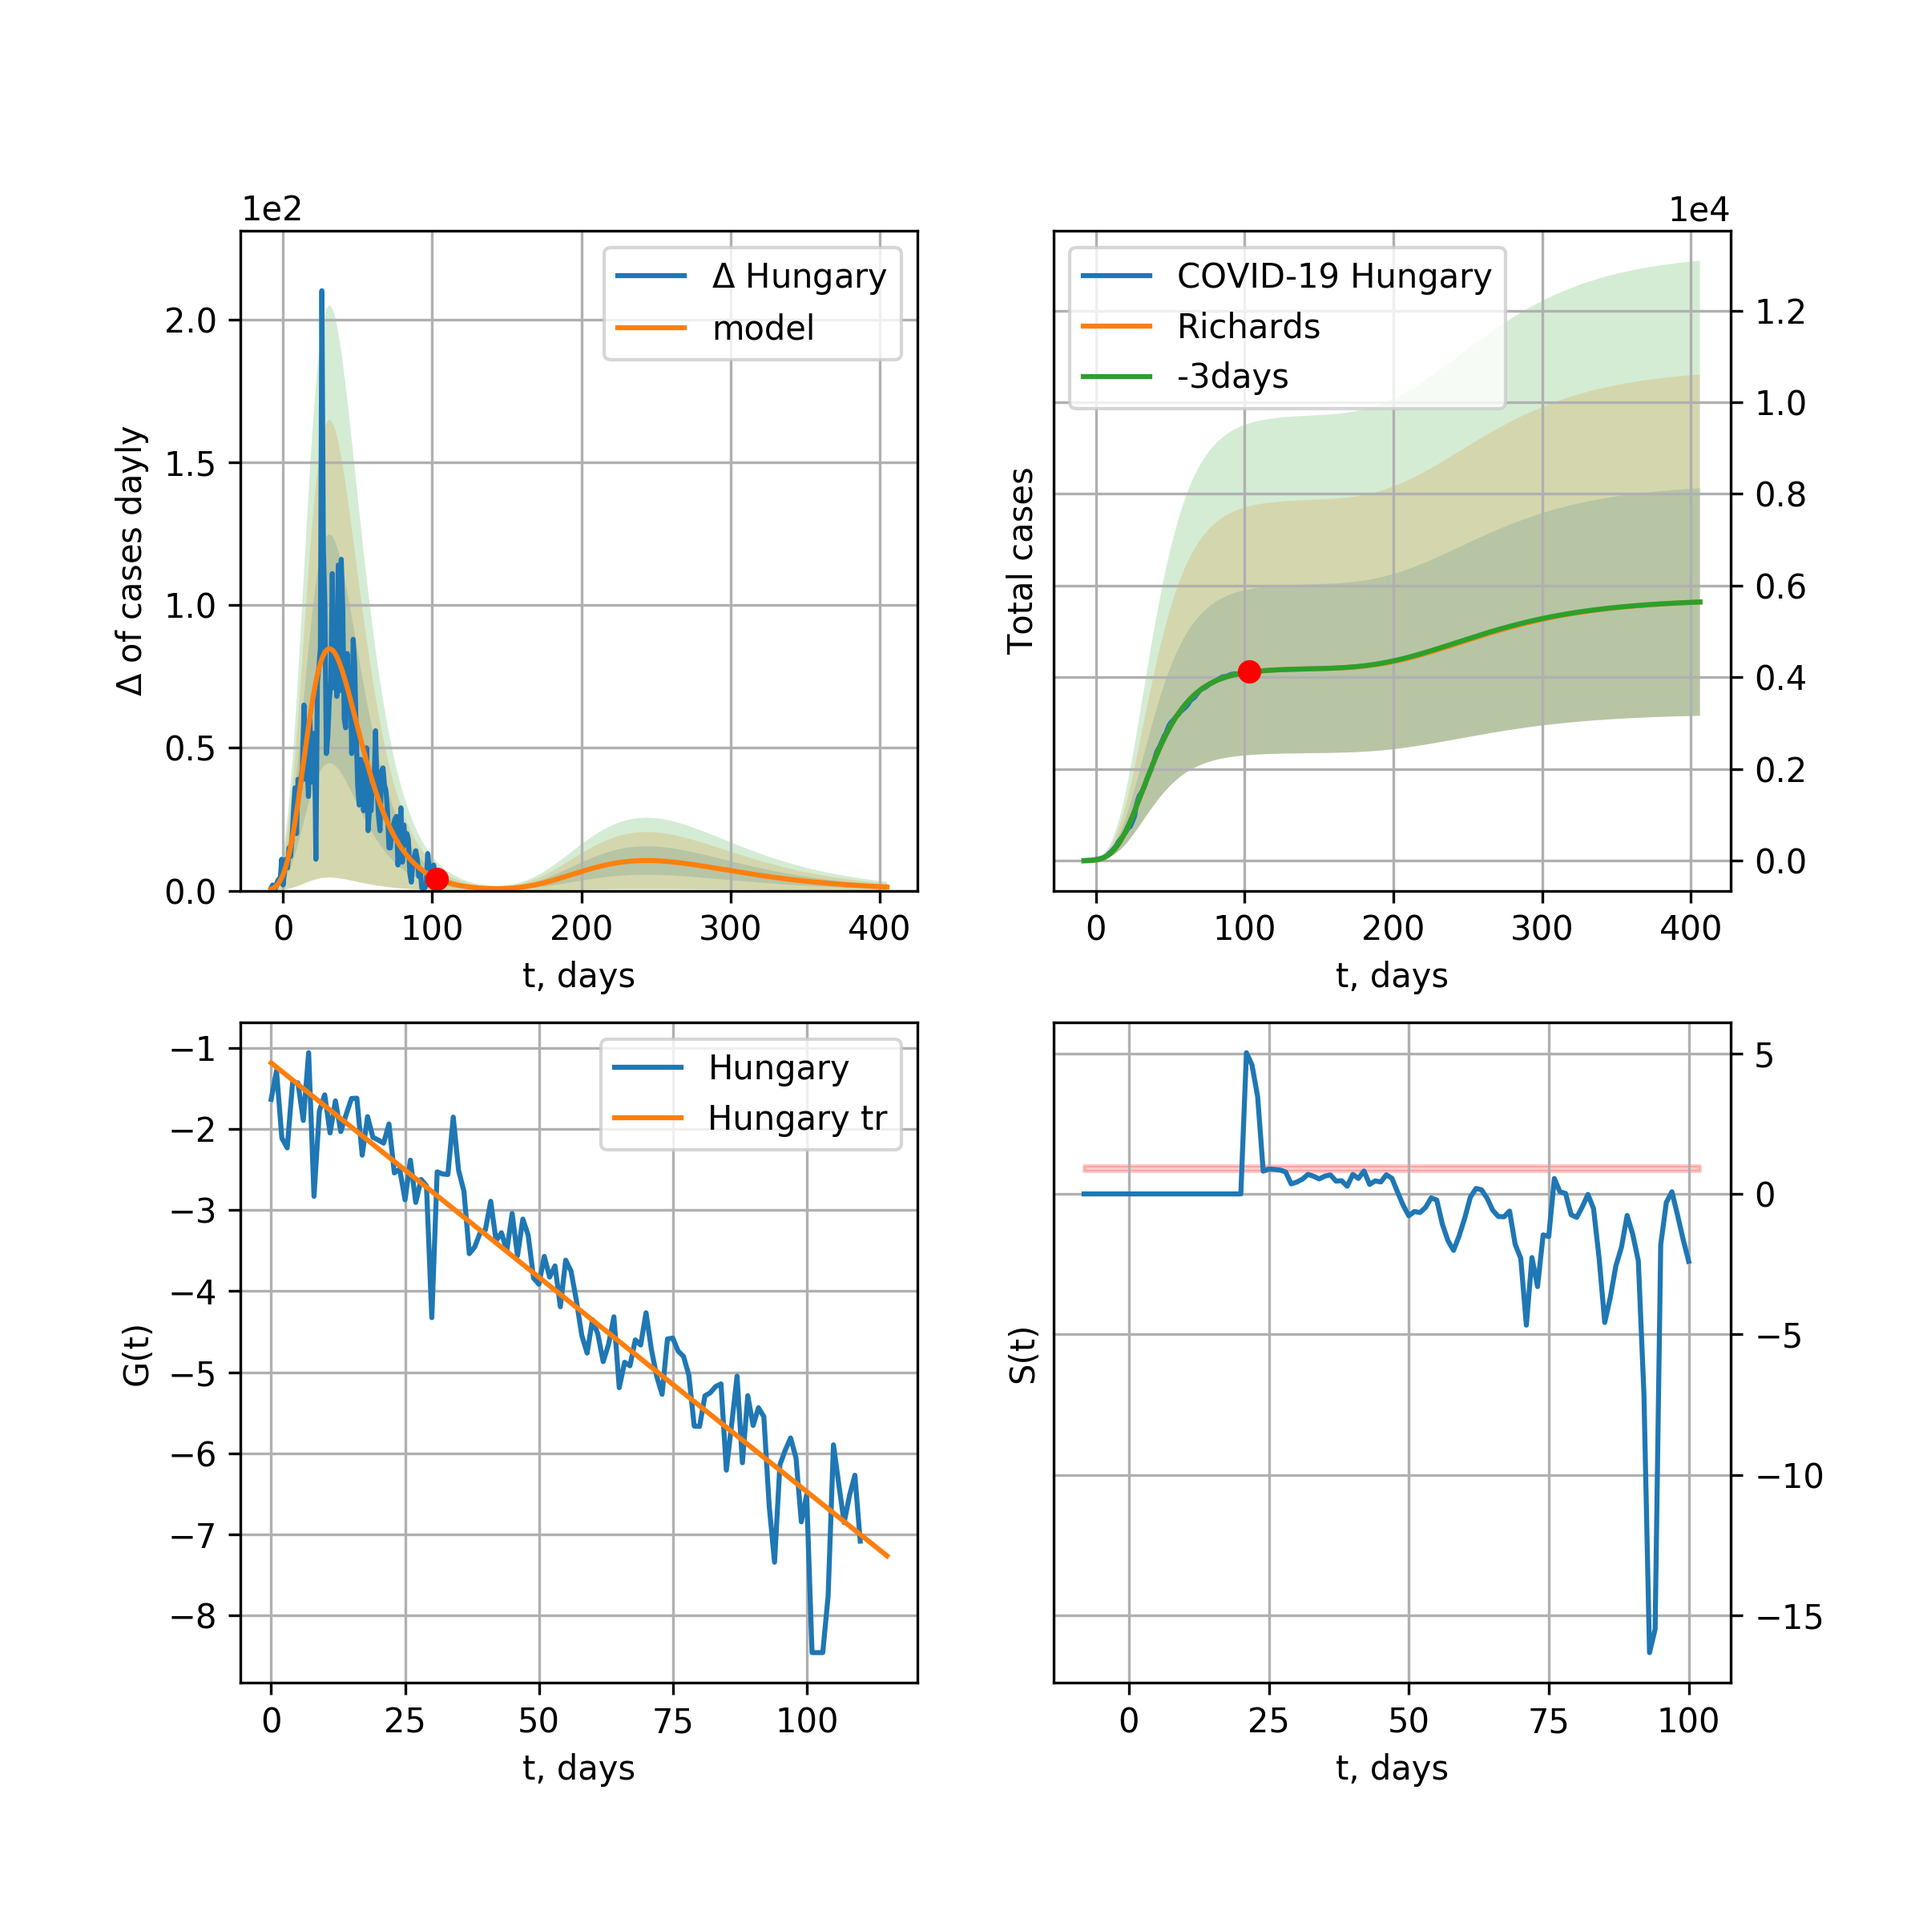
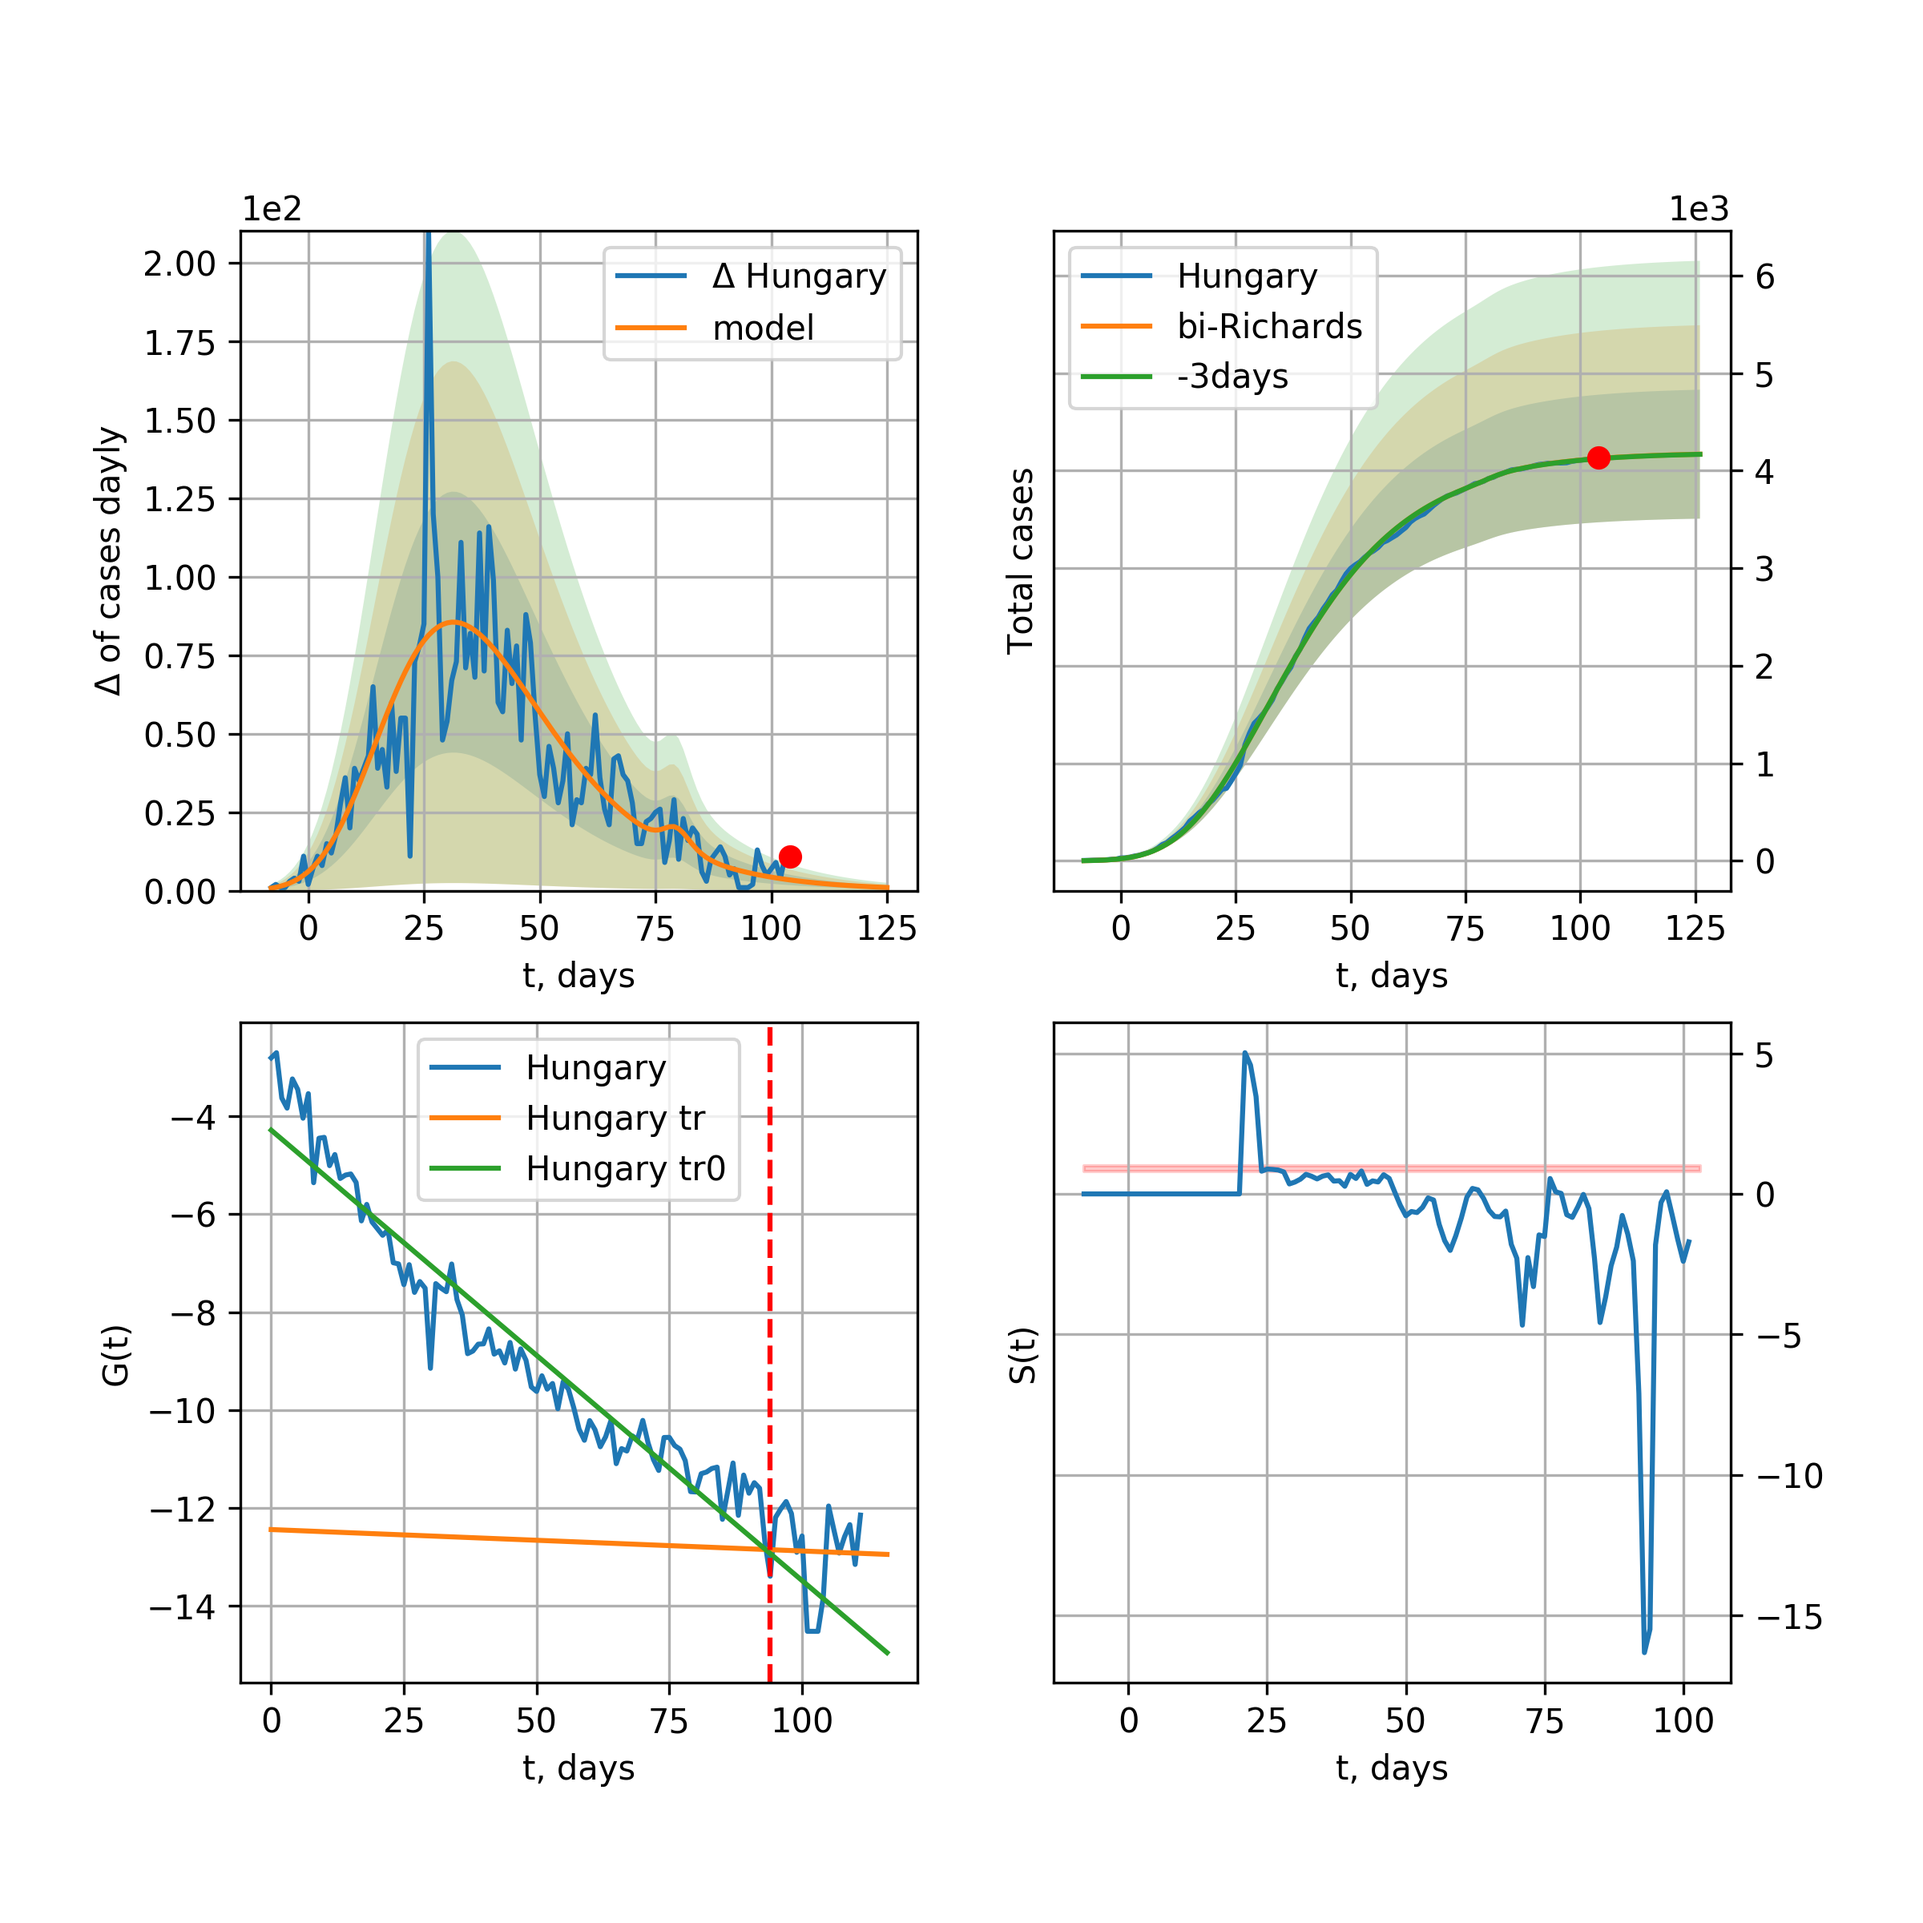
HG renew 2020-06-26

diff --git a/_site/index.html b/_site/index.html
@@ -1339,19 +1339,21 @@ trend coefficient of determination: 0.843309 <br />
     <br />
     <img src="pictures/covidcasesHungary36_R.png" alt="hi" class="inline"/><br /> 
 
-      Hungary data at: 2020-06-25<br />
-+3 day model MAPE: 0.000563<br />
-model: Richards<br />
-coeffs: [ 4.19320362e+03  3.23596672e+00 -4.18501253e+01  1.71155908e-02]<br />
-S.Korea scenario coeffs: [0.36242246, 2.56241634, 1.84890887, 0.13324732]<br />
-rational stdev: 0.439640<br />
-forecast at the end of period: +303 days<br />
+      Hungary data at: 2020-06-26<br />
++3 day model MAPE: 0.000410<br />
+model: bi-Richards<br />
+coeffs: [51.10278814  0.63712456 79.46683252  0.74603811]<br />
+rational stdev: 0.158520<br />
+forecast at the end of period: +22 days<br />
 	 deltaDaycases: 1<br />
-	 total cases: 5643 ± 2480<br />
-	 total death: 789 ± 1040<br />
-trend coefficient of determination: 0.909619 <br />
- intercept: -1.187346 <br />
- slope: -0.052834<br />
+	 total cases: 4169 ± 660<br />
+	 total death: 583 ± 277<br />
+bi-Richards approximation splitting point: 94<br />
+trend coefficient of determination: 0.929881 <br />
+ intercept: -4.285388 <br />
+ slope: -0.091937<br />trend coefficient of determination: 0.000655 <br />
+ intercept: -12.437831 <br />
+ slope: -0.004374<br />
           <br /> 
     
     Greece
